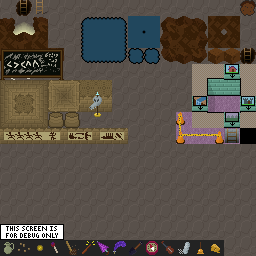
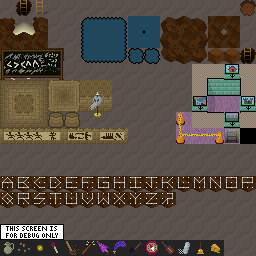
watchduck

Changed region(s): [[0.0, 0.6875, 1.0, 0.8125]]

diff --git a/src/tool/editor/www/js/util/ResService.js b/src/tool/editor/www/js/util/ResService.js
@@ -22,7 +22,7 @@ export class ResService {
     this.toc = []; // {type, id, name, q, lang, path, serial, object}
     this.dirties = []; // {type, id} The named TOC entries should have a fresh (object) and no (serial).
     this.dirtyDebounce = null;
-    this.mapSet = "-full"; // "-demo" or "-full" //TODO Add UI for toggling this.
+    this.mapSet = "-demo"; // "-demo" or "-full" //TODO Add UI for toggling this.
     
     this.reloadAll();
     

diff --git a/src/app/sprite/types/fmn_sprite_watchduck.c b/src/app/sprite/types/fmn_sprite_watchduck.c
@@ -1,0 +1,170 @@
+#include "app/fmn_platform.h"
+#include "app/fmn_game.h"
+#include "app/sprite/fmn_sprite.h"
+#include "app/hero/fmn_hero.h"
+
+#define WATCHDUCK_SPEAK_RANGE 2.0f
+#define WATCHDUCK_WALK_SPEED 2.0f
+
+#define needitem sprite->argv[0]
+
+#define tileid0 sprite->bv[0]
+#define dialogueid sprite->bv[1] /* bv[1] in our dialogue sprites */
+
+/* Speech bubble.
+ */
+ 
+struct watchduck_destroy_context {
+  struct fmn_sprite *sprite;
+  struct fmn_sprite *dialogue;
+};
+ 
+static int watchduck_destroy_speech_bubble_cb(struct fmn_sprite *q,void *userdata) {
+  struct watchduck_destroy_context *ctx=userdata;
+  struct fmn_sprite *sprite=ctx->sprite;
+  if (q->layer<150) return 0;
+  if (q->imageid!=sprite->imageid) return 0;
+  if (q->bv[0]!=0xdc) return 0;
+  if (q->bv[1]!=dialogueid) return 0;
+  ctx->dialogue=q;
+  return 1;
+}
+ 
+static void watchduck_destroy_speech_bubble(struct fmn_sprite *sprite) {
+  // We have to restart iteration for each bubble bit we find; deleting them can change the addresses.
+  struct watchduck_destroy_context ctx={.sprite=sprite};
+  while (fmn_sprites_for_each(watchduck_destroy_speech_bubble_cb,&ctx)) fmn_sprite_kill(ctx.dialogue);
+  dialogueid=0;
+}
+ 
+static void watchduck_create_speech_bubble(struct fmn_sprite *sprite) {
+  dialogueid=(((uintptr_t)sprite)>>4)|1;
+  struct fmn_sprite *bubblebit;
+  #define DLGTILE(t,dx,dy,l) \
+    if (bubblebit=fmn_sprite_generate_noparam(0,sprite->x+dx,sprite->y+dy)) { \
+      bubblebit->imageid=sprite->imageid; \
+      bubblebit->tileid=t; \
+      bubblebit->style=FMN_SPRITE_STYLE_TILE; \
+      bubblebit->bv[0]=0xdc; \
+      bubblebit->bv[1]=dialogueid; \
+      bubblebit->layer=150+l; \
+    } else { \
+      watchduck_destroy_speech_bubble(sprite); \
+      return; \
+    }
+  DLGTILE(0x90,-0.5f,-2.0f,0)
+  DLGTILE(0x91, 0.5f,-2.0f,0)
+  DLGTILE(0xa0,-0.5f,-1.0f,0)
+  DLGTILE(0xa1, 0.5f,-1.0f,0)
+  DLGTILE(0xf0+needitem,0.0f,-1.60f,1)
+  #undef DLGTILE
+}
+
+static int watchduck_posbub_cb(struct fmn_sprite *q,void *userdata) {
+  struct fmn_sprite *sprite=userdata;
+  if (q->layer<150) return 0;
+  if (q->imageid!=sprite->imageid) return 0;
+  if (q->bv[0]!=0xdc) return 0;
+  if (q->bv[1]!=dialogueid) return 0;
+  switch (q->tileid) {
+    case 0x90: q->x=sprite->x-0.5f; q->y=sprite->y-2.0f; break;
+    case 0x91: q->x=sprite->x+0.5f; q->y=sprite->y-2.0f; break;
+    case 0xa0: q->x=sprite->x-0.5f; q->y=sprite->y-1.0f; break;
+    case 0xa1: q->x=sprite->x+0.5f; q->y=sprite->y-1.0f; break;
+    default: q->x=sprite->x; q->y=sprite->y-1.60f; break;
+  }
+  return 0;
+}
+
+static void watchduck_position_speech_bubble(struct fmn_sprite *sprite) {
+  fmn_sprites_for_each(watchduck_posbub_cb,sprite);
+}
+
+/* Speaking.
+ */
+ 
+static void watchduck_update_speech(struct fmn_sprite *sprite,float elapsed) {
+  if (dialogueid) {
+    watchduck_position_speech_bubble(sprite);
+  } else {
+    watchduck_create_speech_bubble(sprite);
+  }
+  sprite->tileid=tileid0+2; // 2,3
+  sprite->style=FMN_SPRITE_STYLE_TWOFRAME;
+}
+
+/* Walking.
+ */
+ 
+static void watchduck_update_walk(struct fmn_sprite *sprite,float elapsed,float herox) {
+  if (dialogueid) {
+    watchduck_destroy_speech_bubble(sprite);
+  }
+  sprite->tileid=tileid0+0;
+  const float speedlimit=WATCHDUCK_WALK_SPEED*elapsed;
+  float dx=herox-sprite->x;
+  if (dx>0.0f) {
+    sprite->style=FMN_SPRITE_STYLE_TWOFRAME;
+    sprite->xform|=FMN_XFORM_XREV;
+    if (dx>speedlimit) sprite->x+=speedlimit;
+    else sprite->x+=dx;
+  } else if (dx<0.0f) {
+    sprite->style=FMN_SPRITE_STYLE_TWOFRAME;
+    sprite->xform&=~FMN_XFORM_XREV;
+    if (dx<-speedlimit) sprite->x-=speedlimit;
+    else sprite->x+=dx;
+  } else {
+    sprite->style=FMN_SPRITE_STYLE_TILE;
+  }
+}
+
+/* Update.
+ */
+ 
+static void _watchduck_update(struct fmn_sprite *sprite,float elapsed) {
+  //TODO check sleep
+  float herox,heroy;
+  fmn_hero_get_position(&herox,&heroy);
+  if ((heroy>sprite->y)&&(heroy<sprite->y+WATCHDUCK_SPEAK_RANGE)) {
+    watchduck_update_speech(sprite,elapsed);
+  } else {
+    watchduck_update_walk(sprite,elapsed,herox);
+  }
+}
+
+/* Interact.
+ */
+ 
+static int16_t _watchduck_interact(struct fmn_sprite *sprite,uint8_t itemid,uint8_t qualifier) {
+  switch (itemid) {
+    case FMN_ITEM_WAND: switch (qualifier) {
+        case FMN_SPELLID_LULLABYE: break;
+        case FMN_SPELLID_REVEILLE: break;
+      } break;
+    case FMN_ITEM_BELL: break;
+  }
+  return 0;
+}
+
+/* Init.
+ */
+ 
+static void _watchduck_init(struct fmn_sprite *sprite) {
+  tileid0=sprite->tileid;
+  
+  // If hero already has the item, mission accomplished, we can disappear.
+  if (needitem>=FMN_ITEM_COUNT) { fmn_sprite_kill(sprite); return; }
+  if (fmn_global.itemv[needitem]) { // have the item...
+    if (fmn_item_default_quantities[needitem]&&!fmn_global.itemqv[needitem]) ; // quantity zero, ok we actually don't have it
+    else { fmn_sprite_kill(sprite); return; }
+  }
+}
+
+/* Type definition.
+ */
+ 
+const struct fmn_sprite_controller fmn_sprite_controller_watchduck={
+  .init=_watchduck_init,
+  .update=_watchduck_update,
+  .interact=_watchduck_interact,
+};

diff --git a/src/app/sprite/types/fmn_sprite_chalkguard.c b/src/app/sprite/types/fmn_sprite_chalkguard.c
@@ -16,6 +16,7 @@ static char chalkguard_word_b[16];
 #define tileid0 sprite->bv[0]
 #define match_state sprite->bv[1] /* 0=none, 1=left, 2=right */
 #define highlight_time sprite->fv[0]
+#define full_time sprite->fv[1]
 
 /* Init.
  */
@@ -92,14 +93,39 @@ static void chalkguard_set_blockade(struct fmn_sprite *sprite,float dx,uint8_t b
 /* Call one of these once after a chalk change.
  */
  
+static void chalkguard_highlight(struct fmn_sprite *sprite) {
+  if (full_time<0.5f) return;
+  highlight_time=CHALKGUARD_HIGHLIGHT_TIME;
+  struct fmn_sprite *tattle=fmn_sprite_generate_noparam(0,sprite->x,sprite->y-1.0f);
+  if (tattle) {
+    tattle->imageid=sprite->imageid;
+    tattle->tileid=0xf7;
+    tattle->style=FMN_SPRITE_STYLE_DOUBLEWIDE;
+    tattle->layer=150;
+  }
+}
+
+static int chalkguard_find_tattle(struct fmn_sprite *q,void *userdata) {
+  if (q->tileid!=0xf7) return 0;
+  if (q->style!=FMN_SPRITE_STYLE_DOUBLEWIDE) return 0;
+  if (q->layer!=150) return 0;
+  *(void**)userdata=q;
+  return 1;
+}
+
+static void chalkguard_drop_tattle(struct fmn_sprite *sprite) {
+  struct fmn_sprite *tattle=0;
+  if (fmn_sprites_for_each(chalkguard_find_tattle,&tattle)) fmn_sprite_kill(tattle);
+}
+ 
 static void chalkguard_match(struct fmn_sprite *sprite,float dx) {
   chalkguard_set_blockade(sprite,dx,0);
   chalkguard_set_blockade(sprite,-dx,1);
   uint8_t nstate=(dx>0.0f)?2:1;
   if (match_state!=nstate) {
     match_state=nstate;
-    highlight_time=CHALKGUARD_HIGHLIGHT_TIME;
     sprite->tileid=tileid0+1;
+    chalkguard_highlight(sprite);
   }
 }
 
@@ -108,8 +134,8 @@ static void chalkguard_match_none(struct fmn_sprite *sprite) {
   chalkguard_set_blockade(sprite,1.0f,1);
   if (match_state!=0) {
     match_state=0;
-    highlight_time=CHALKGUARD_HIGHLIGHT_TIME;
     sprite->tileid=tileid0+1;
+    chalkguard_highlight(sprite);
   }
 }
 
@@ -151,10 +177,12 @@ static int16_t _chalkguard_interact(struct fmn_sprite *sprite,uint8_t itemid,uin
  */
  
 static void _chalkguard_update(struct fmn_sprite *sprite,float elapsed) {
+  full_time+=elapsed;
   if (highlight_time>0.0f) {
     if ((highlight_time-=elapsed)<=0.0f) {
       highlight_time=0.0f;
       sprite->tileid=tileid0;
+      chalkguard_drop_tattle(sprite);
     }
   }
 }

diff --git a/src/app/sprite/types/fmn_sprite_pushblock.c b/src/app/sprite/types/fmn_sprite_pushblock.c
@@ -40,13 +40,34 @@ static int pushblock_check_solids_cb(struct fmn_sprite *q,void *userdata) {
   if (point->y>q->y+q->radius) return 0;
   return 1;
 }
+
+static int pushblock_physics_cb(struct fmn_sprite *q,void *userdata) {
+  struct fmn_sprite *sprite=userdata;
+  if (q==sprite) return 0;
+  if (!(q->physics&FMN_PHYSICS_SPRITES)) return 0;
+  if (!fmn_physics_check_sprites(0,0,q,sprite)) return 0;
+  return 1;
+}
  
-static void pushblock_prepare_motion(struct fmn_sprite *sprite,uint8_t dir) {
+static uint8_t pushblock_prepare_motion(struct fmn_sprite *sprite,uint8_t dir) {
   
   float dx,dy;
   fmn_vector_from_dir(&dx,&dy,dir);
   float dstx=sprite->x+dx;
   float dsty=sprite->y+dy;
+  
+  sprite->x=dstx;
+  sprite->y=dsty;
+  sprite->radius-=0.3f;
+  uint8_t collision=0;
+  if (
+    fmn_physics_check_edges(0,0,sprite)||
+    fmn_physics_check_grid(0,0,sprite,sprite->physics)||
+    fmn_sprites_for_each(pushblock_physics_cb,sprite)
+  ) collision=1;
+  sprite->radius+=0.3f;
+  sprite->x-=dx;
+  sprite->y-=dy;
   
   slidedir=dir;
   slidetime=0.0f;
@@ -64,14 +85,18 @@ static void pushblock_prepare_motion(struct fmn_sprite *sprite,uint8_t dir) {
   if ((fract>=0.5f-FMN_PUSHBLOCK_TARGET_FUDGE)&&(fract<=0.5+FMN_PUSHBLOCK_TARGET_FUDGE)) {
     slidedst=whole+0.5f;
   }
+  
+  return collision?0:1;
 }
 
 /* Begin push.
  */
  
 static void pushblock_push(struct fmn_sprite *sprite) {
-  fmn_sound_effect(FMN_SFX_PUSH);
-  pushblock_prepare_motion(sprite,pressdir);
+  if (pushblock_prepare_motion(sprite,pressdir)) {
+    fmn_sound_effect(FMN_SFX_PUSH);
+  }
+  // If it doesn't look possible, try anyway. Just don't make the "fwish" sound.
   pressdir=0;
   presstime=0.0f;
 }

diff --git a/src/app/sprite/fmn_sprite.h b/src/app/sprite/fmn_sprite.h
@@ -149,6 +149,7 @@ void fmn_sprite_kill(struct fmn_sprite *sprite);
 #define FMN_SPRCTL_magicdoor     48
 #define FMN_SPRCTL_bittattle     49
 #define FMN_SPRCTL_panda         50
+#define FMN_SPRCTL_watchduck     51
 
 #define FMN_FOR_EACH_SPRCTL \
   _(dummy) \
@@ -201,7 +202,8 @@ void fmn_sprite_kill(struct fmn_sprite *sprite);
   _(pamcake) \
   _(magicdoor) \
   _(bittattle) \
-  _(panda)
+  _(panda) \
+  _(watchduck)
   
 struct fmn_sprite_controller {
   void (*init)(struct fmn_sprite *sprite);

diff --git a/src/app/sprite/types/fmn_sprite_wildflower.c b/src/app/sprite/types/fmn_sprite_wildflower.c
@@ -1,9 +1,11 @@
 #include "app/sprite/fmn_sprite.h"
 
 #define varietal sprite->argv[0]
+#define flop sprite->argv[1]
 
 static void _wildflower_init(struct fmn_sprite *sprite) {
   sprite->tileid+=(varietal&3)*2;
+  if (flop) sprite->xform=FMN_XFORM_XREV;
 }
 
 static int16_t _wildflower_interact(struct fmn_sprite *sprite,uint8_t itemid,uint8_t qualifier) {

diff --git a/README.md b/README.md
@@ -13,40 +13,27 @@ And tentatively aiming for full release 29 September 2023, the first full moon o
 
 ### May
 
-- [x] Beta test.
 - [ ] Track travel. Use for crow guidance, and report coverage at the end. Flag maps eg border as "not participating in coverage".
 - - Or use a "set gsbit" map command, for selected maps only? Coverage reporting is not a big priority.
 - [ ] Scripts to analyze logs.
 - [ ] Metal
-- [x] editor:ImageAllUi: Show names.
 - [ ] Can I make rubber trees that you can squeeze between them by pushing?
-- [x] Westward blowback seems slower than eastward, or is that my imagination? ...imagination
 - [ ] minsyn drums too loud
-- [ ] pushblock: Don't make a sound if we can tell we won't be moving.
-- [ ] wildflower: Option to flip horizontally
+- [x] pushblock: Don't make a sound if we can tell we won't be moving.
+- [x] wildflower: Option to flip horizontally
 - [ ] Native fiddle tool.
-- - [x] http: WebSocket
 - - [ ] inotify helper
-- - [x] Report peak and RMS continuously over WebSocket.
-- - [x] MIDI-In. Manage at the web app, and call `POST /api/midi`.
 - - [ ] MIDI-In and PCM/synth config at command line? Would be cool to have some functionality without the web app.
 - - [ ] Broad support for level analysis -- I'd like to replace `assist` with this.
 - - [ ] Show me which instruments are used by each song.
 - - [ ] Possible to populate the instruments menu with the selected program on channel 14?
-- [x] web: Handle high-frequency monitors. We use requestAnimationFrame but then assume 60 Hz.
-- [x] Disable shovel underlay while pumpkinned.
-- [x] Moonsong's chalkboard should be chalkable, make it work.
-- [x] Gravestones too, why aren't they?
 - [ ] Can we move the rabbit? He teaches a song but users will not have the violin at that point.
-- [x] Put some pushblocks near the snow globe, to show it off.
-- [x] Beach SW, the rain spell educator looks like it has something to do with the lambda block but it doesn't.
 - [ ] Is the panda too distracting, at Seamonster Pong?
 - [ ] Playing first_frost via fiddle, with screwing around on ch 14, the bells timing is off.
-- [ ] Chalk alphabet education.
-- [ ] chalkguard: fireworks
-- [ ] "Bring matches" watchduck at the cave entrance, demo.
-- [x] Village transmogrification platform is shovellable; shouldn't be.
-- [x] Lambda block: Some kind of visual change while attracted, so you can tell something happened, when you're blocking its motion.
+- [x] Chalk alphabet education.
+- [x] chalkguard: fireworks
+- [x] "Bring matches" watchduck at the cave entrance, demo.
+- [x] demo cave, first ladder triggers turnaround ...i think this is ok
 
 ### Full Maps
 
